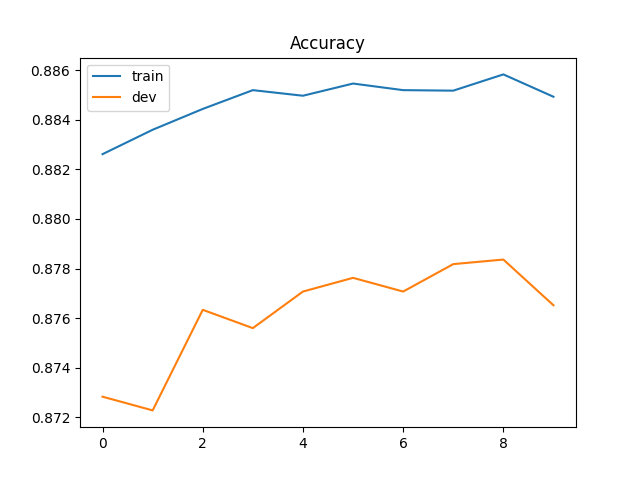
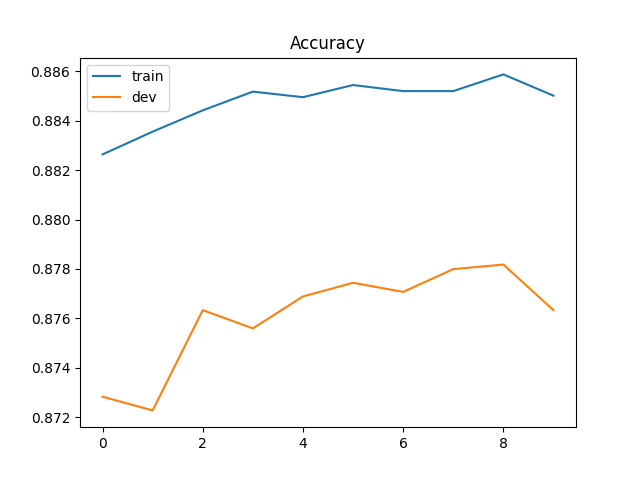
feat：0.88965

diff --git a/作业二/logistic_regression.py b/作业二/logistic_regression.py
@@ -169,8 +169,8 @@ for epoch in range(max_iter):
 
         # gradient descent update
         # learning rate decay with time
-        w = w - learning_rate / np.sqrt(step) * (w_grad+w*0.0001)
-        b = b - learning_rate / np.sqrt(step) * (b_grad+b*0.00015)
+        w = w - learning_rate / np.sqrt(step) * (w_grad+w*0.00035)
+        b = b - learning_rate / np.sqrt(step) * b_grad
 
         step = step + 1
 
